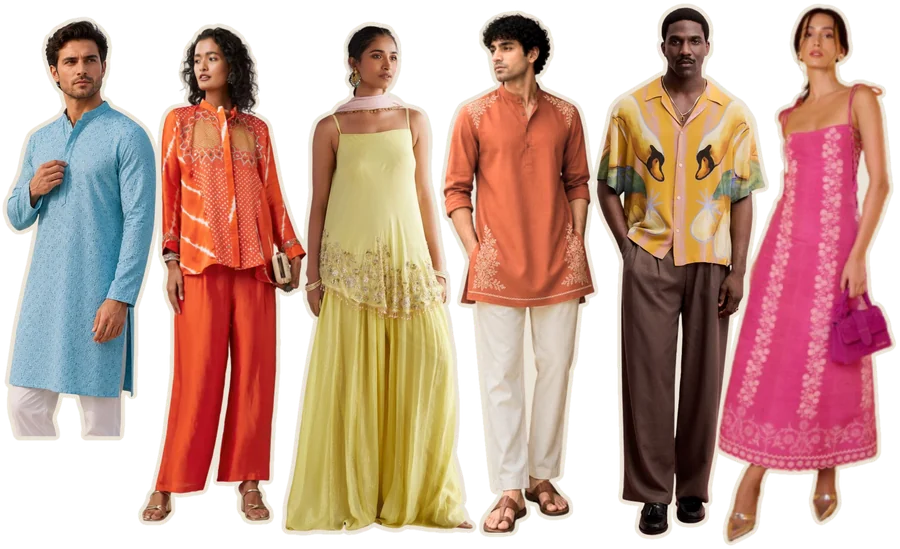
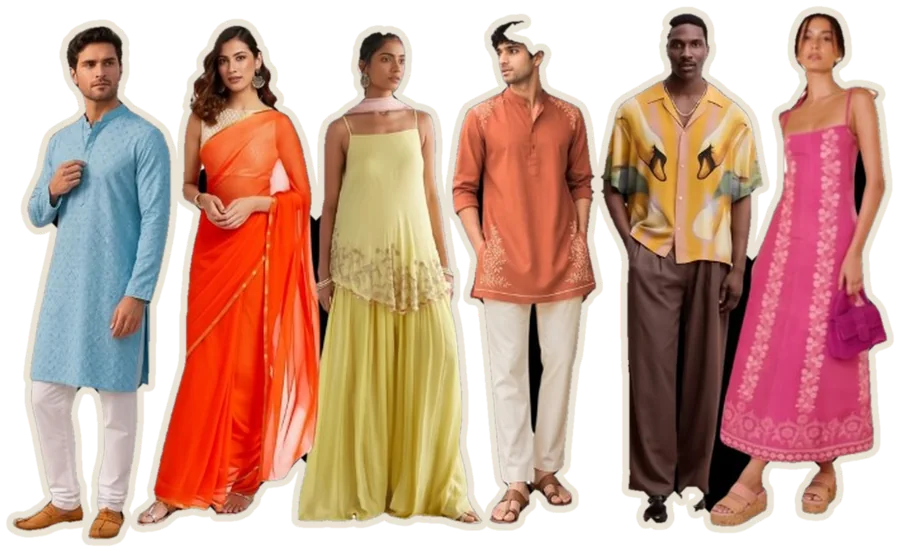
Panda FAQ; new Ganesh Puja & Haldi outfit image

diff --git a/index.html b/index.html
@@ -982,7 +982,7 @@ picture{margin-block:clamp(52px,8vw,104px);}
 </article>
 <article class="leg" data-tab="Ganesh Puja &amp; Haldi">
 <div class="leg-body">
-<picture><source srcset="img/look-haldi-sm.webp 900w, img/look-haldi.webp 1800w" sizes="(max-width:760px) 100vw, 44rem" type="image/webp"><img src="img/look-haldi.png" width="900" height="549" decoding="async" alt="Six guests in playful Indo-western outfits in bright, solid colors."></picture>
+<picture><source srcset="img/look-haldi-sm.webp?v=2 900w, img/look-haldi.webp?v=2 1420w" sizes="(max-width:760px) 100vw, 44rem" type="image/webp"><img src="img/look-haldi.png?v=2" width="900" height="552" decoding="async" alt="Six guests in playful Indo-western outfits in bright, solid colors."></picture>
 <ul class="swatches" aria-label="Suggested colors"><li style="--c:#D94678"></li><li style="--c:#F46860"></li><li style="--c:#F57E59"></li><li style="--c:#DFAA50"></li><li style="--c:#D8D086"></li><li style="--c:#B4EF90"></li><li style="--c:#75D9DF"></li><li style="--c:#4981FD"></li></ul>
 <p class="when">Semi-Formal Western or Indian</p>
 <ul class="gems"><li>Playful Indo-western outfits.</li><li>Bright, solid colors encouraged. Dress for sunshine!</li><li>Wear shoes you feel comfy walking in. Avoid stiletto heels.</li></ul>
@@ -1128,6 +1128,12 @@ picture{margin-block:clamp(52px,8vw,104px);}
 <h3>Are you accepting gifts?</h3>
 <p>We do not want gifts for the wedding. Your presence is truly the best gift we could ask for!</p>
 <p>If you would like to give us something, we’ll share more information closer to the wedding.</p>
+</div>
+</article>
+<article class="leg" data-tab="Panda">
+<div class="leg-body">
+<h3>Is Panda coming?</h3>
+<p>TBD - please ask Kajal's mother Gita.</p>
 </div>
 </article>
 <article class="leg" data-tab="Contact">
